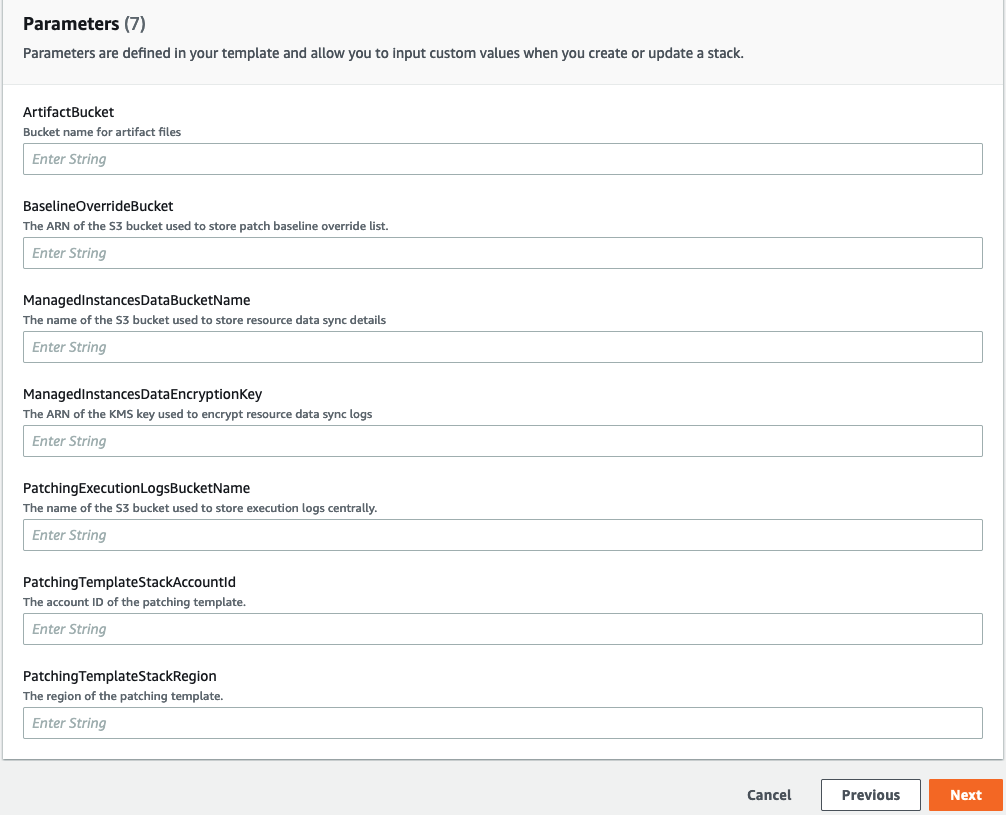
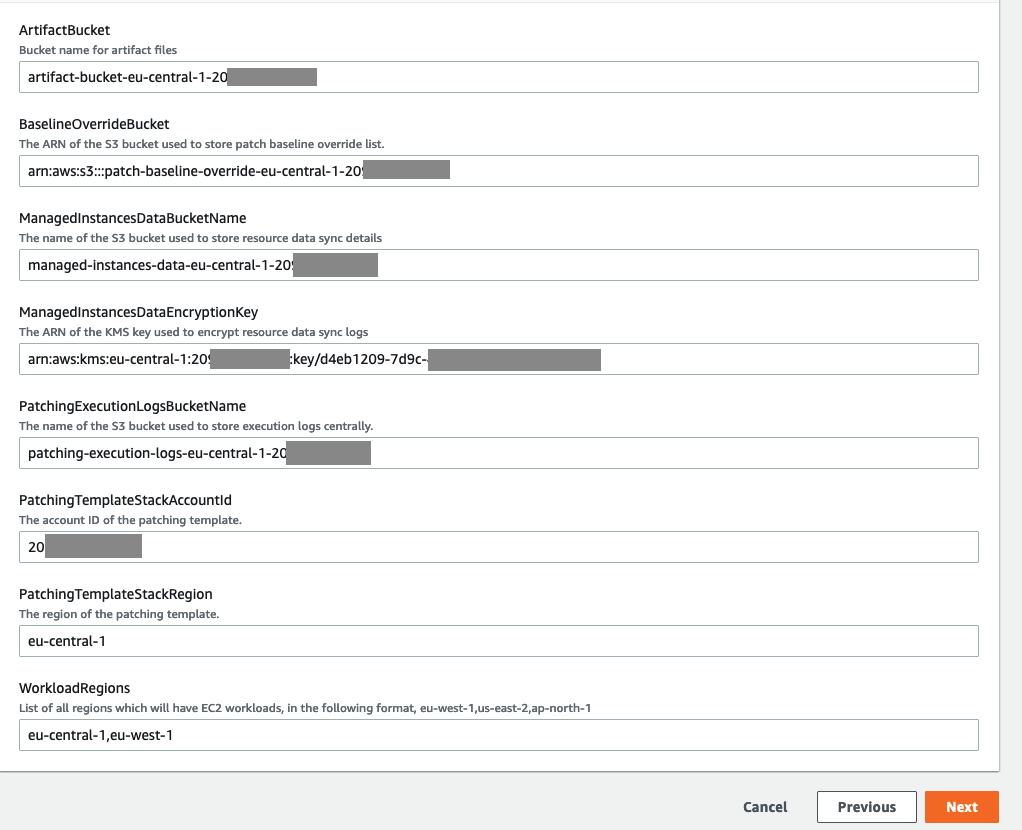
updated readme file with detailed instructions

diff --git a/README.md b/README.md
@@ -56,16 +56,16 @@
         ![](images/Deploy_stackset_Step4-a.png)
     2.	Navigate to the Outputs section of the stack launched in step-3 and fetch the below information.
         ![](images/Deploy_stackset_Step4-b.png)
-    
-    3.	Click Next
+    3.  Specify the regions separated by comma, in which you have EC2 workload
     4.	Click Next
-    5.	Select Deployment target as “Deploy to organization”
+    5.	Click Next
+    6.	Select Deployment target as “Deploy to organization”
         ![](images/Deploy_stackset_Step4-c.png)
     
-    6.	Select all the regions you want to cover.
-    7.	Click on Next.
-    8.	Scroll down and select the check box “I acknowledge that AWS CloudFormation might create IAM resources with custom names”.
-    9.	Click on Submit.
+    7.	Select all the regions you want to cover.
+    8.	Click on Next.
+    9.	Scroll down and select the check box “I acknowledge that AWS CloudFormation might create IAM resources with custom names”.
+    10.	Click on Submit.
 
 # Usage
 
